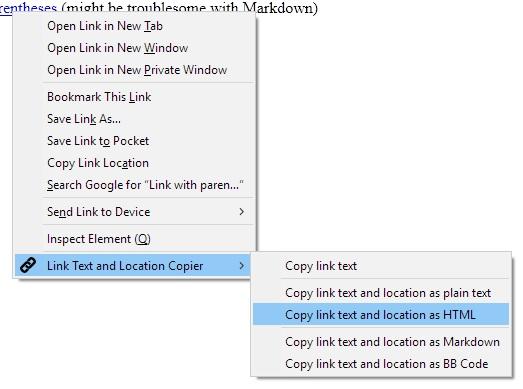
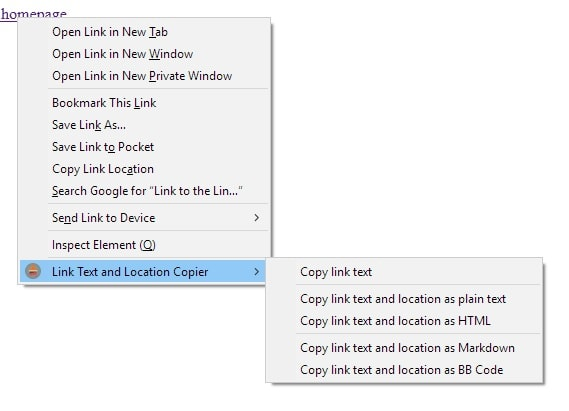
New screenshots.

Changed region(s): [[0.0, 0.0, 1.0, 0.9871]]

diff --git a/docs/index.html b/docs/index.html
@@ -98,6 +98,7 @@
           <li><del>Add more 'copy as' formats (Markdown, BBCode, what-have-you)</del></li>
           <li><del>Internationalization</del></li>
           <li><del>Come up with better name and/or icon</del></li>
+          <li><del>Add documentation.</del></li>
           <li><del>Make configurable/Customalization</del>
             <ul>
               <li>Toggle local/synced storage</li>
@@ -118,6 +119,13 @@
             <figure class="screenshot__figure">
                 <img src="images/contextmenu.jpg" class="screenshot__image" alt="Screenshot of the context menu" />
               <figcaption class="screenshot__caption">Context menu</figcaption>
+            </figure>
+          </a>
+
+          <a href="images/optionspage.jpg" class="screenshot js-lightbox" />
+            <figure class="screenshot__figure">
+                <img src="images/optionspage.jpg" class="screenshot__image" alt="Screenshot of the options page" />
+              <figcaption class="screenshot__caption">Options page</figcaption>
             </figure>
           </a>
         </div>

diff --git a/docs/testpage.html b/docs/testpage.html
@@ -13,7 +13,7 @@
   <body>
     <ul>
       <li>
-        <a href="https://github.com/evilnickname/link-text-location-copier" title="title attribute">Link to the Link Text and Location Copier homepage<a>
+        <a href="https://github.com/evilnickname/link-text-location-copier" title="title attribute">Link to the Link Text and Location Copier homepage</a>
       </li>
       <li>
         <a href="http://example.com/testlink-with-(parentheses)">Link with parentheses</a> (might be troublesome with Markdown)

diff --git a/README.md b/README.md
@@ -11,18 +11,11 @@ Heavily inspired by the [CoLT](https://github.com/jgbishop/colt) add-on, using c
 * ~~Add fancy icon~~
 * ~~Add more 'copy as' formats (Markdown, BBCode, what-have-you)~~
 * ~~Come up with better icon~~
-<<<<<<< HEAD
 * ~~Add documentation~~
 * ~~Make configurable/Customization~~
     * Toggle local/synced storage
     * Make options page prettier
     * Further enhancements TBA
-=======
-* ~~Make configurable/Customization~~
-    * Toggle local/synced storage
-    * Make options page prettier
-* Add documentation
->>>>>>> master
 * Copy actions for (linked) images
 * Requested: Rich Text format
 * Make extension work in Chrome/Opera/Edge
